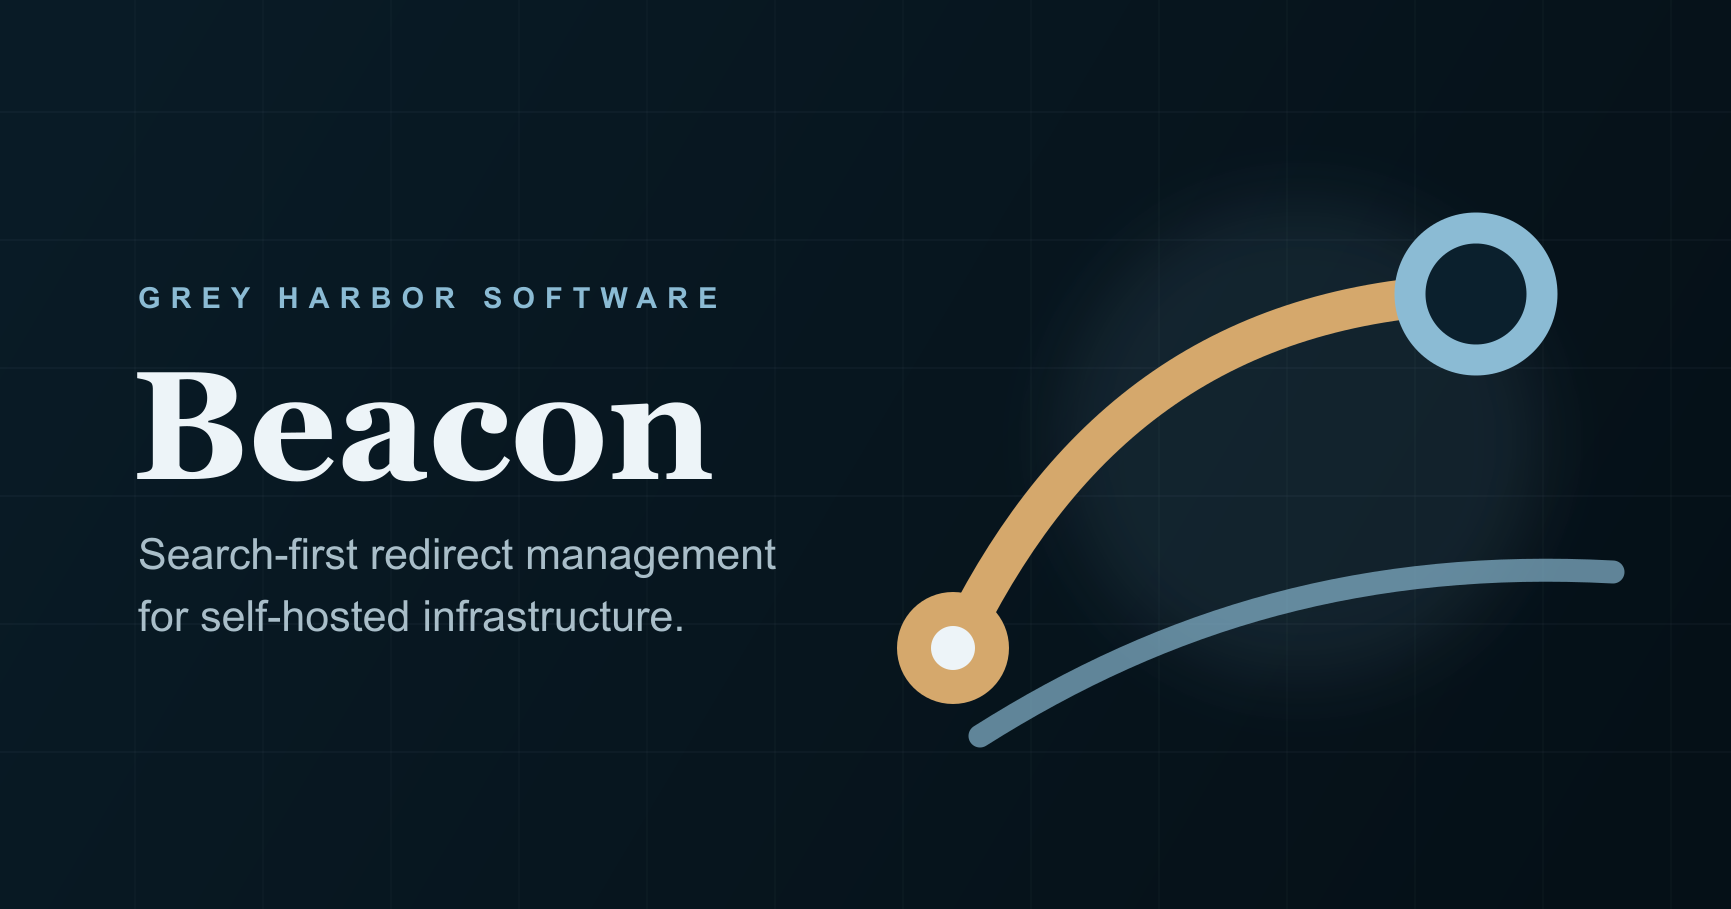
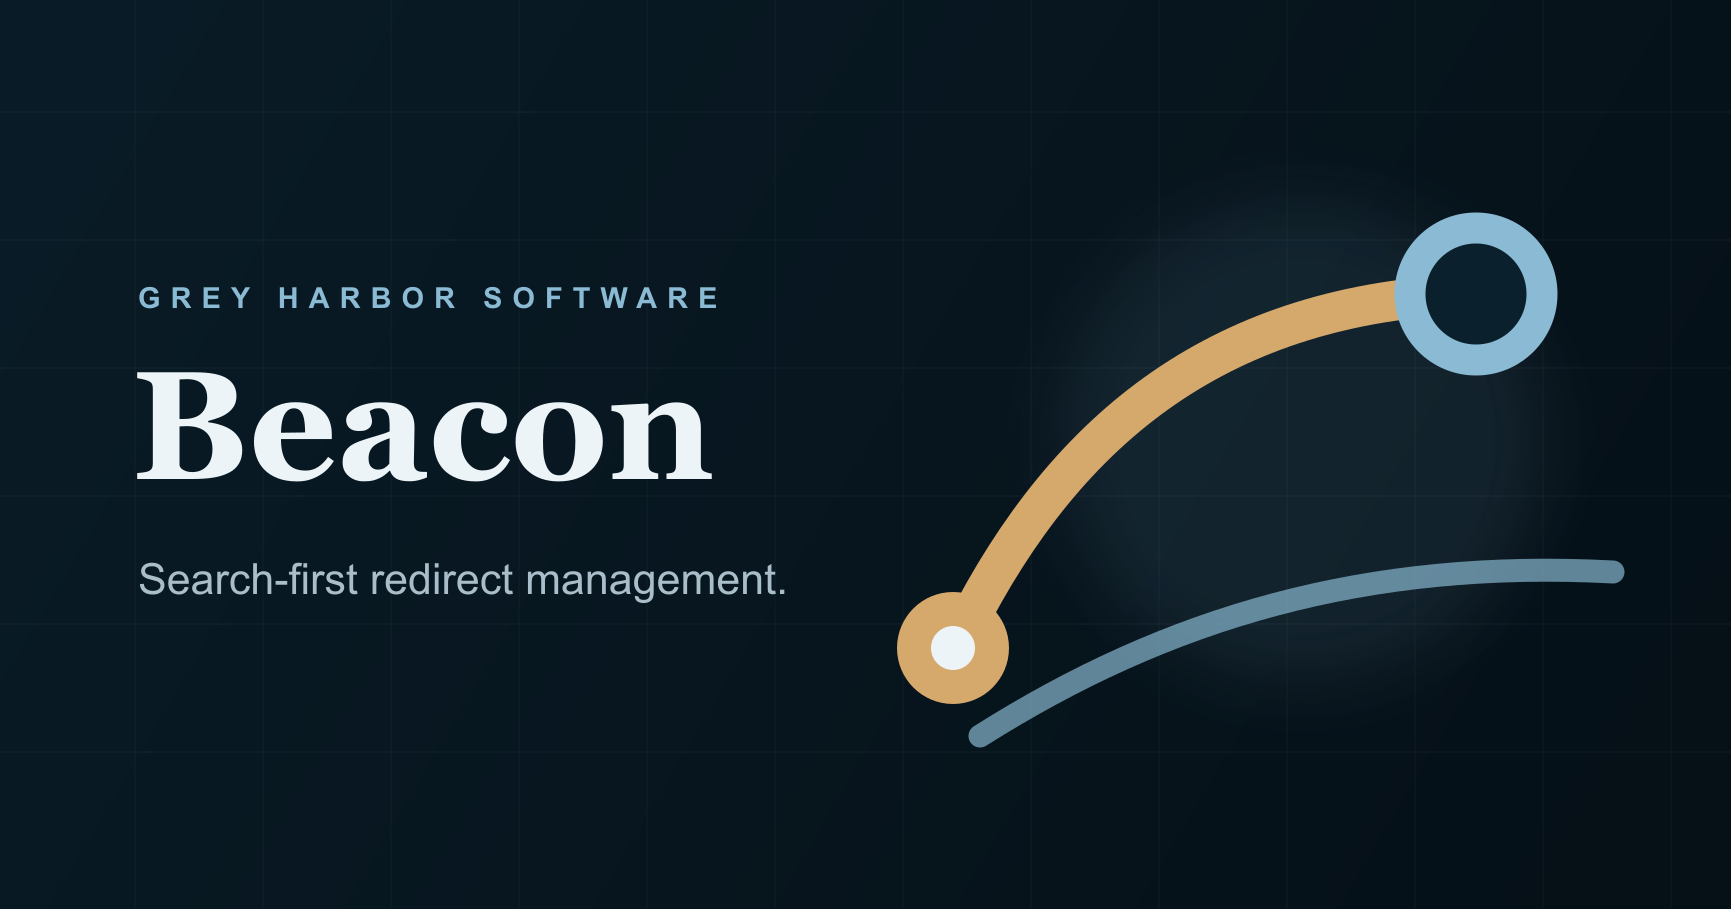
fix(brand): broaden Beacon positioning

Changed region(s): [[0.0624, 0.5853, 0.4679, 0.7085]]

diff --git a/site/app/page.tsx b/site/app/page.tsx
@@ -5,7 +5,7 @@ import { SiteFooter } from '@/components/site-footer';
 import { buildPageMetadata, siteDescription, siteName, siteUrl, socialCard } from '@/lib/seo';
 
 export const metadata: Metadata = buildPageMetadata({
-  title: 'Search-first management for self-hosted redirects',
+  title: 'Search-first redirect management',
   description: siteDescription,
   canonicalPath: '/',
 });
@@ -36,7 +36,7 @@ const paths = [
   },
   {
     title: 'How-to',
-    description: 'Self-host the complete stack and operate its credentials and projections.',
+    description: 'Deploy the complete stack and operate its credentials and projections.',
     href: '/docs/how-to',
   },
   {
@@ -90,11 +90,10 @@ export default function HomePage() {
       <main className="landing" id="main">
         <section className="hero">
           <div className="hero-copy">
-            <span className="eyebrow">Redirect management for self-hosted infrastructure</span>
+            <span className="eyebrow">Search-first redirect management</span>
             <h1>Beacon</h1>
             <p className="lede">
-              A calm, focused place to create, find, change, and review redirects while Drift
-              preserves the record and Compactor handles the traffic.
+              A calm, focused place to create, find, change, and review redirects.
             </p>
             <div className="actions">
               <Link className="button primary" href="/docs/tutorial">
@@ -156,9 +155,9 @@ export default function HomePage() {
             <p className="eyebrow">Why it exists</p>
             <h2 id="why-heading">A management surface, not the redirect runtime</h2>
             <p>
-              Redirect infrastructure needs deliberate editing, reusable destinations, lifecycle
-              controls, and enough operational history to understand changes. It does not need the
-              management application to become the traffic engine or the system of record.
+              Redirects need deliberate editing, reusable destinations, lifecycle controls, and
+              enough operational history to understand changes. The management application does not
+              need to become the traffic engine or the system of record.
             </p>
           </div>
         </section>

diff --git a/site/lib/seo.ts b/site/lib/seo.ts
@@ -3,11 +3,10 @@ import type { Metadata } from 'next';
 export const siteName = 'Beacon';
 export const siteUrl = 'https://beacon.greyharborsoftware.com';
 export const siteDescription =
-  'Search-first management for self-hosted redirect infrastructure, with authoritative data in Drift and redirect execution by Compactor.';
+  'A calm, search-first place to create, find, change, and review redirects.';
 export const siteKeywords = [
   'redirect management',
-  'self-hosted redirects',
-  'URL infrastructure',
+  'URL redirects',
   'redirect operations',
   'Drift',
   'Compactor',
@@ -19,7 +18,7 @@ export const socialCard = {
   url: '/brand/social-card.png',
   width: 1731,
   height: 909,
-  alt: 'Beacon redirect management for self-hosted infrastructure',
+  alt: 'Beacon search-first redirect management',
 } as const;
 
 function withTrailingSlash(path: string): string {

diff --git a/site/app/docs/[[...slug]]/page.tsx b/site/app/docs/[[...slug]]/page.tsx
@@ -15,13 +15,13 @@ interface DocsPageProps {
 }
 
 const docsIndexDescription =
-  'Browse Beacon tutorials, how-to guides, API reference, and explanations for self-hosted redirect management.';
+  'Browse Beacon tutorials, how-to guides, API reference, and explanations for redirect management.';
 
 const docsIndexKeywords = [
   'Beacon documentation',
   'Beacon redirect management tutorial',
   'Beacon API reference',
-  'self-hosted redirect guides',
+  'redirect management guides',
   'Compactor integration',
 ] as const;
 

diff --git a/site/components/site-footer.tsx b/site/components/site-footer.tsx
@@ -4,7 +4,7 @@ export function SiteFooter() {
   return (
     <footer className="site-footer">
       <div className="footer-links" aria-label="Related links">
-        <Link href="/docs/how-to/self-hosting">Self-host Beacon with Compose</Link>
+        <Link href="/docs/how-to/self-hosting">Deploy Beacon with Compose</Link>
         <a href="https://github.com/Grey-Harbor/Beacon" target="_blank" rel="noreferrer">
           GitHub repository
         </a>

diff --git a/apps/web/src/components.tsx b/apps/web/src/components.tsx
@@ -36,9 +36,7 @@ export function AuthShell({
         <div>
           <p className="eyebrow">{eyebrow}</p>
           <h1>{title}</h1>
-          <p className="lede">
-            A calm place to manage the redirect infrastructure Compactor serves.
-          </p>
+          <p className="lede">A calm place to manage redirects.</p>
         </div>
       </section>
       <section className="auth-panel">{children}</section>

diff --git a/site/components/site-header.tsx b/site/components/site-header.tsx
@@ -17,7 +17,7 @@ export function SiteHeader() {
         </span>
         <span className="brand-copy">
           <span className="brand-name">Beacon</span>
-          <span className="brand-tag">Redirect infrastructure, kept clear</span>
+          <span className="brand-tag">Redirect management, kept clear</span>
         </span>
       </Link>
 

diff --git a/apps/web/app/layout.tsx b/apps/web/app/layout.tsx
@@ -3,7 +3,7 @@ import '../src/styles.css';
 
 export const metadata: Metadata = {
   title: 'Beacon',
-  description: 'A calm place to manage redirect infrastructure.',
+  description: 'A calm place to manage redirects.',
   icons: {
     icon: '/beacon-mark.svg',
     shortcut: '/beacon-mark.svg',

diff --git a/README.md b/README.md
@@ -2,7 +2,7 @@
 
 # Beacon
 
-Use Beacon to manage self-hosted redirect infrastructure backed by Drift and executed by Compactor. Start with the [getting-started tutorial](./docs/tutorial/getting-started.md) for local development or the [self-hosting guide](./docs/how-to/self-hosting.md) for the bundled Compose deployment.
+Use Beacon to create, organize, and understand redirects from one focused management application. Start with the [getting-started tutorial](./docs/tutorial/getting-started.md) for local development or the [Compose deployment guide](./docs/how-to/self-hosting.md) for production.
 
 Beacon is a focused management application, not a redirect runtime, analytics platform, or multi-user administration console. Drift owns authoritative persistence and tenant isolation. Compactor owns redirect execution, caching, and event production. Beacon owns management workflows and rebuildable read projections.
 
